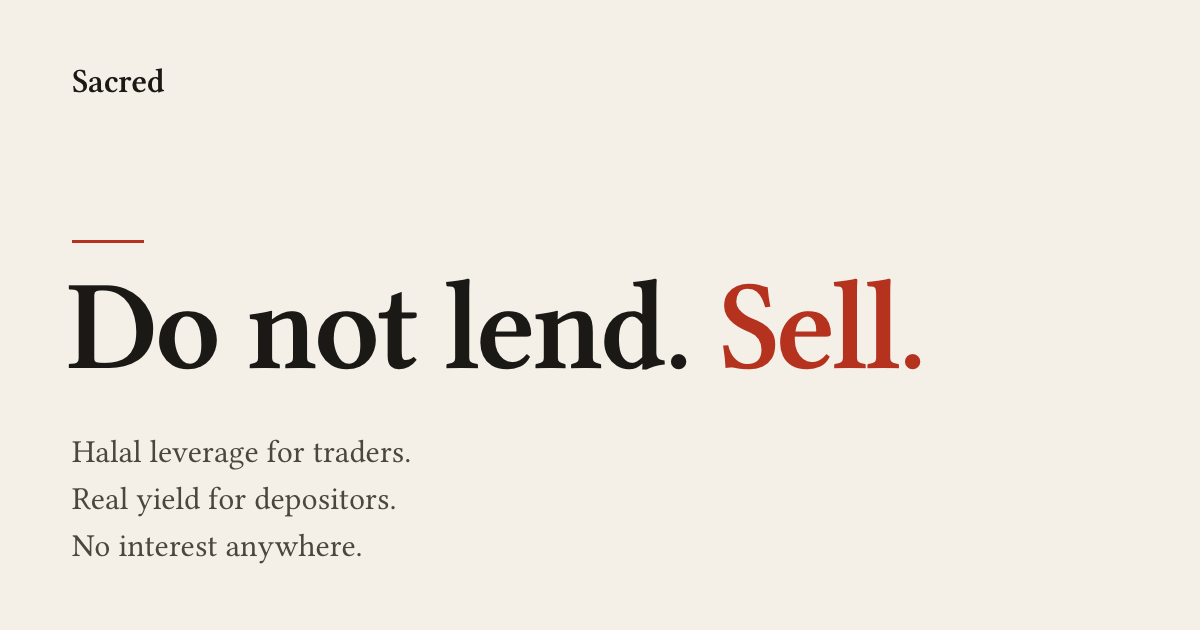
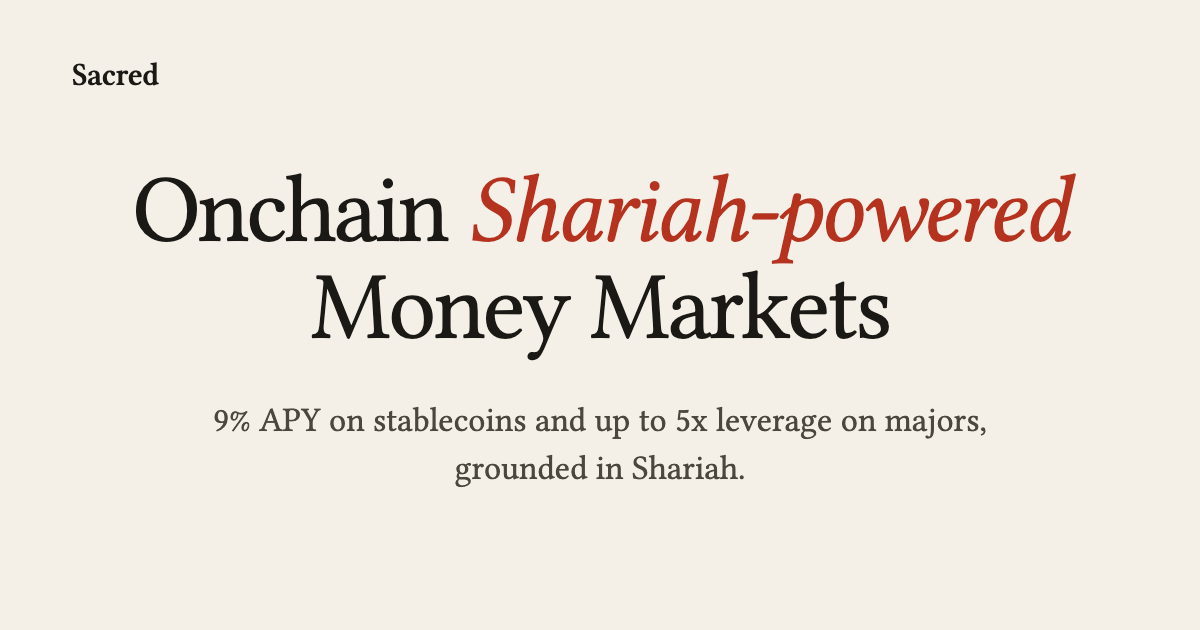
Social preview: current hero headline and lead in the share image and description
Claude-Session: https://claude.ai/code/session_018pe1yGpzPDkSGz2iRSavUJ

diff --git a/frontend/app/layout.js b/frontend/app/layout.js
@@ -30,7 +30,8 @@ const mono = Libertinus_Mono({
   adjustFontFallback: false,
 });
 
-const description = "Halal leverage for traders. Real yield for depositors. No interest anywhere.";
+const description =
+  "Onchain Shariah-powered Money Markets. 9% APY on stablecoins and up to 5x leverage on majors, grounded in Shariah.";
 
 export const metadata = {
   metadataBase: new URL("https://sacred.markets"),
